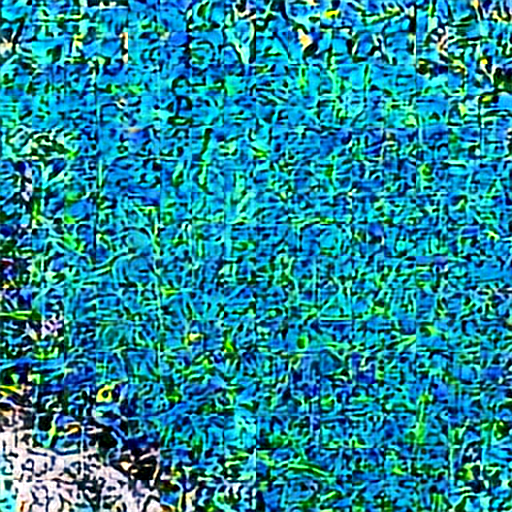
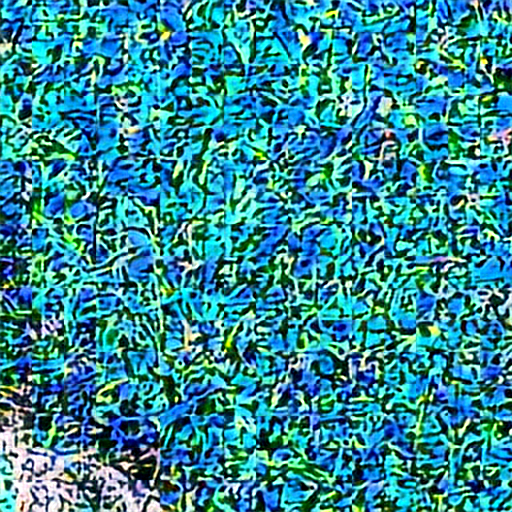
生成图片

diff --git a/JiT/generate_one_diag.py b/JiT/generate_one_diag.py
@@ -80,7 +80,7 @@ def main():
         "--out_dir",
         default="/home/cvip/deyu/jit_ralu/JiT/result_diag",
     )
-    parser.add_argument("--label", type=int, default=2)
+    parser.add_argument("--label", type=int, default=0)
     parser.add_argument("--seed", type=int, default=3)
     parser.add_argument("--model", default="JiT-B/32")
     parser.add_argument("--img_size", type=int, default=512)
